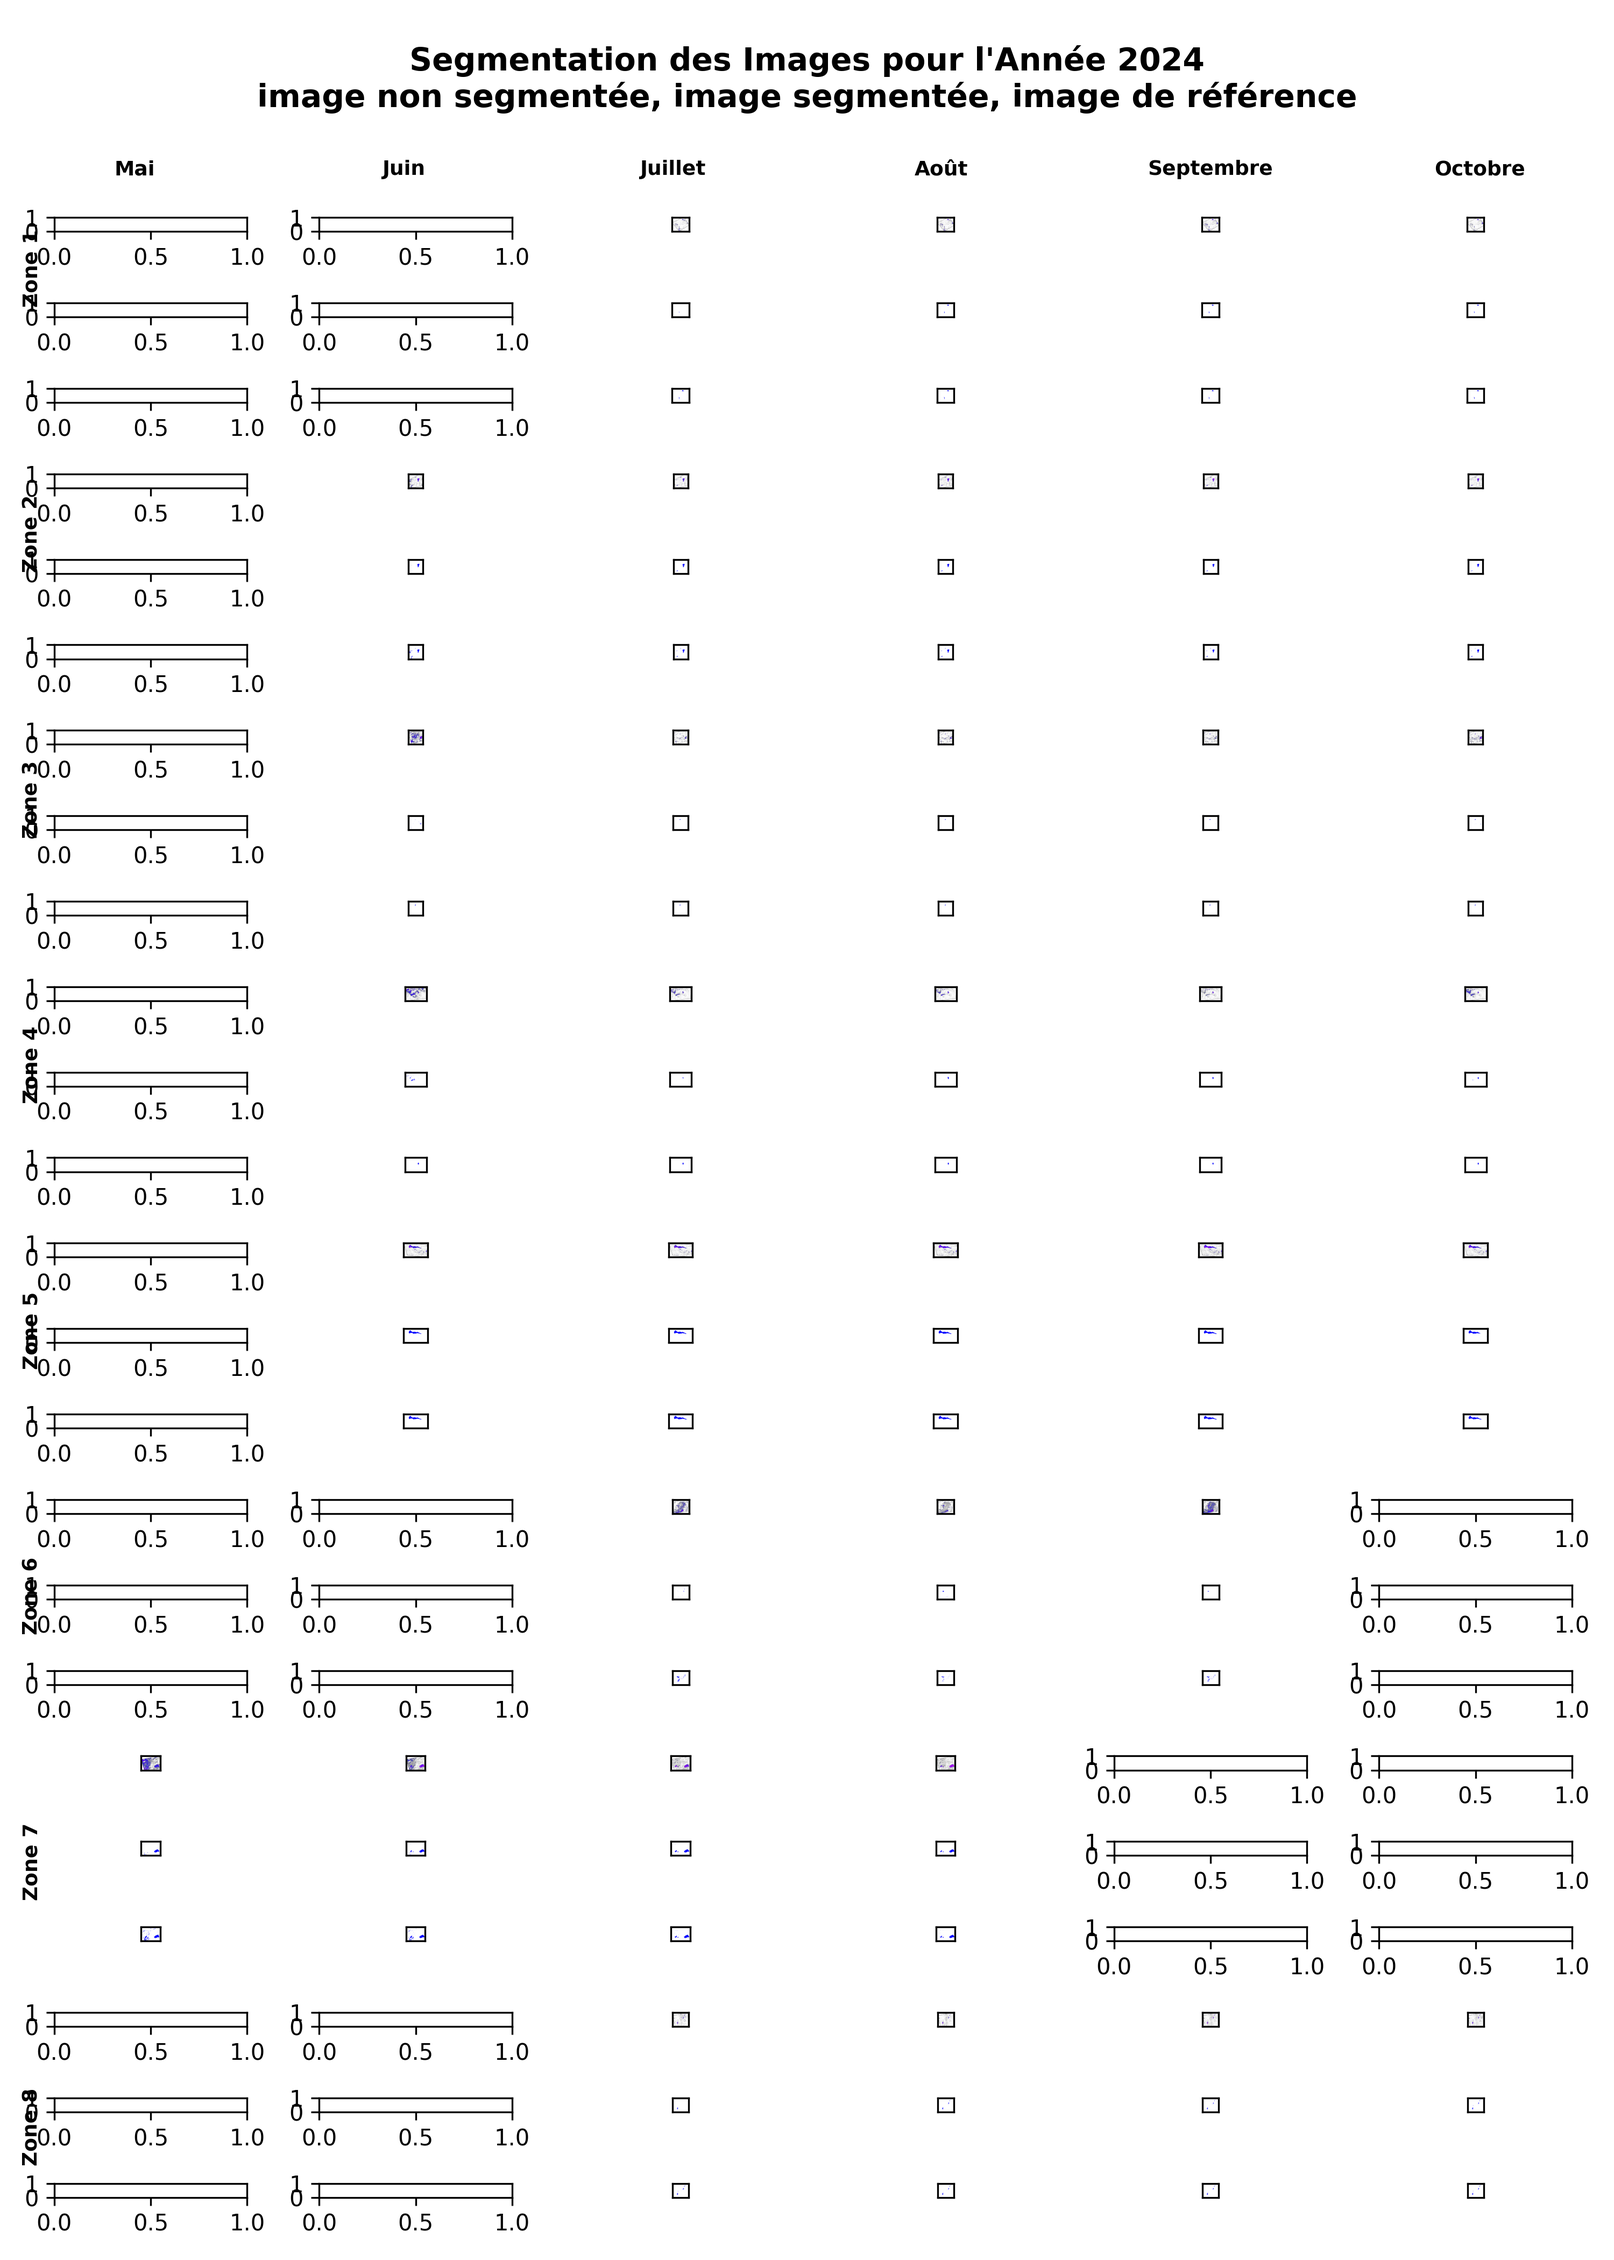
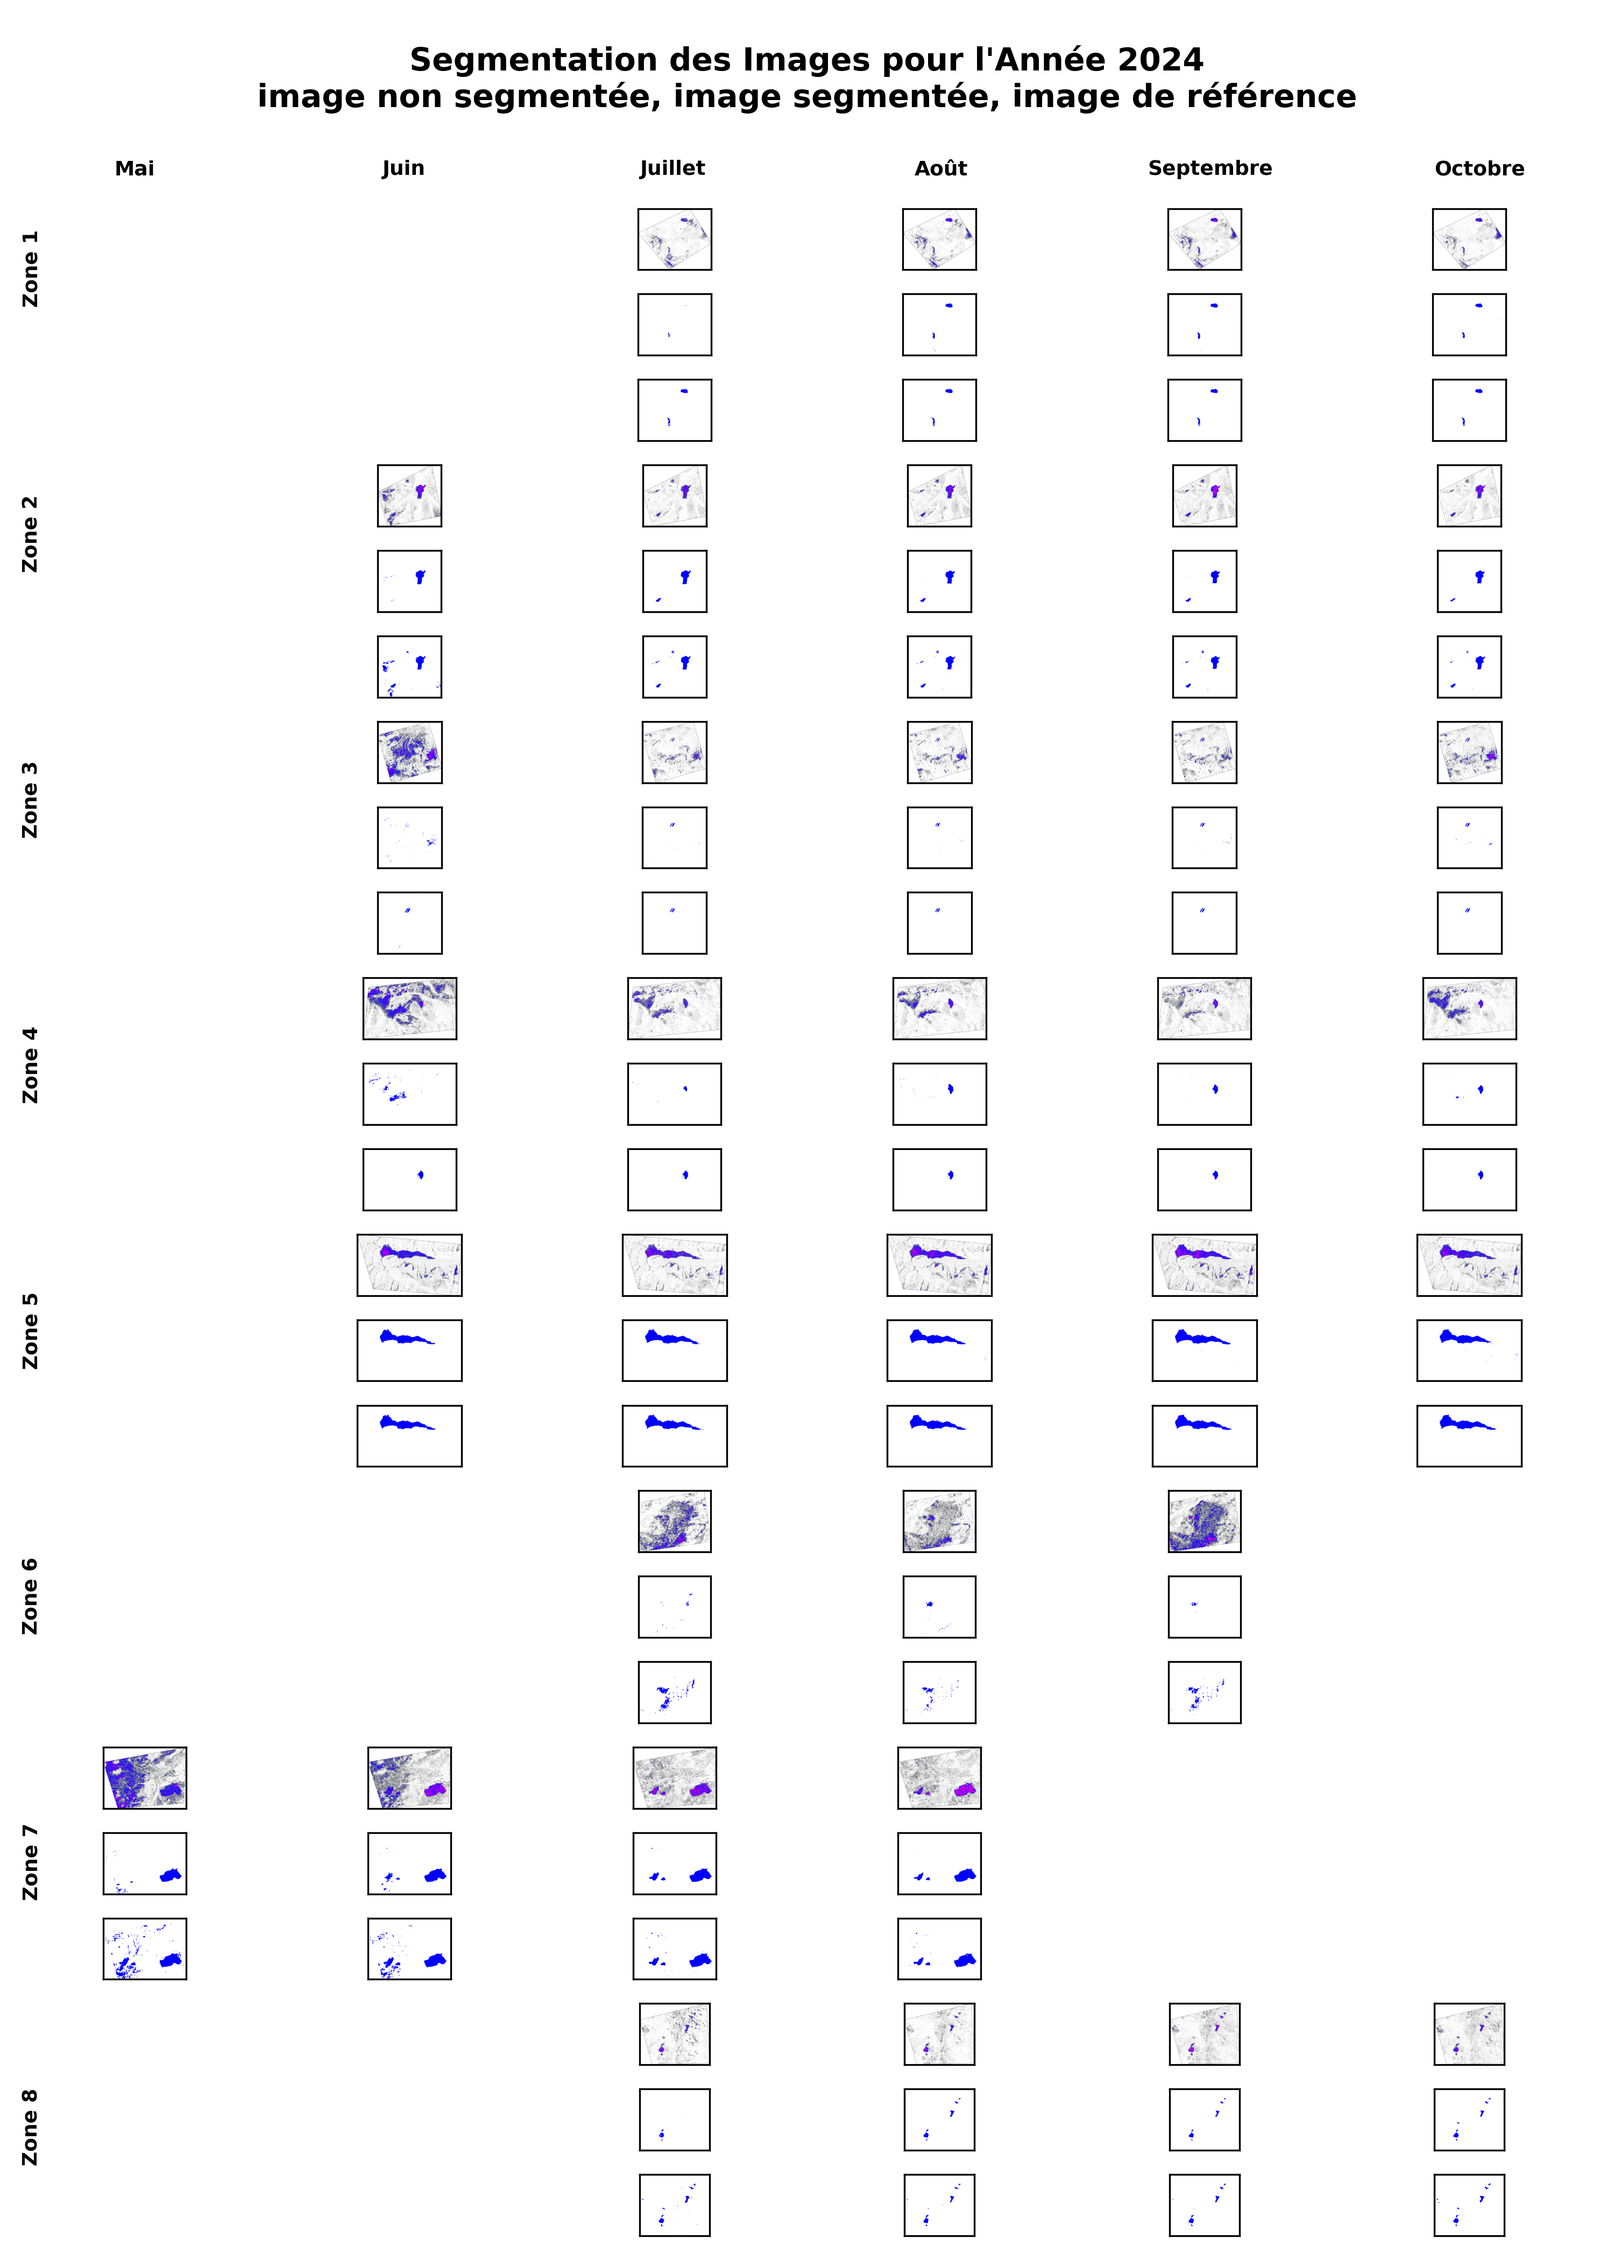
correction du modèle RF colocalisées

diff --git a/codes/RF_C.py b/codes/RF_C.py
@@ -139,14 +139,11 @@ def tests_segmentation_C(
 
     for x,zone in enumerate(zones):
 
-        print(f"segmentation Zone {zone} ", end="")
         dir = f'./Data/Test_zone{zone}/STATS/MeanMonthly/'
         dir_mean_monthly = f"./GroundTruth_DYN/Test_zone{zone}/"
         dir_colocated = f"./NDWI_colocalise_avec_sar/Colocated_Images/Zone{zone}"
 
         for y,m in enumerate(mois):
-            
-            print(f".", end="")
 
             chemin_image = None
             chemin_image_ref = None
@@ -156,6 +153,10 @@ def tests_segmentation_C(
             chemin_image_ref = premier_fichier_dossier(f"{dir_mean_monthly}/*{date}*.tif")
             chemin_colocated = premier_fichier_dossier(f"{dir_colocated}/*{annee}-{m:02d}*")
 
+            plot_oasis = plots[x * 3, y]
+            plot_segmente = plots[x * 3 + 1, y]
+            plot_ref = plots[x * 3 + 2, y]
+            
             if chemin_image is not None and chemin_image_ref is not None and chemin_colocated is not None:
 
                 colocated = recuperer_image(chemin_colocated)
@@ -166,17 +167,8 @@ def tests_segmentation_C(
                 end = time.time()
                 temps_execution.append(end-start)
                 
-                if chemin_image_ref is None :
-                    plot_oasis = plots[x * 2, y]
-                    plot_segmente = plots[x * 2 + 1, y]
-
-                else :
-                    plot_oasis = plots[x * 3, y]
-                    plot_segmente = plots[x * 3 + 1, y]
-                    plot_ref = plots[x * 3 + 2, y]
-
-                    plot_ref.imshow(image_reference_binaire(recuperer_image(chemin_image_ref)), cmap=INDICATEUR_BINAIRE, origin='upper')
-                    plot_ref.tick_params(left=False, bottom=False, labelleft=False, labelbottom=False)
+                plot_ref.imshow(image_reference_binaire(recuperer_image(chemin_image_ref)), cmap=INDICATEUR_BINAIRE, origin='upper')
+                plot_ref.tick_params(left=False, bottom=False, labelleft=False, labelbottom=False)
                     
                 plot_oasis.imshow(image, cmap=INDICATEUR_OASIS, origin='upper')
                 plot_oasis.tick_params(left=False, bottom=False, labelleft=False, labelbottom=False)
@@ -184,8 +176,12 @@ def tests_segmentation_C(
                 plot_segmente.imshow(image_segmentee, cmap=INDICATEUR_BINAIRE, origin='upper')
                 plot_segmente.tick_params(left=False, bottom=False, labelleft=False, labelbottom=False)
             
-        print()
+            else:
+                plot_oasis.axis("off")
+                plot_segmente.axis("off")
+                plot_ref.axis("off")
 
+            
     dx = len(zones)
     for x,zone in enumerate(zones):    
         fig.text(0.02, 0.94 * (1 - (x / dx) - (1 / (2 * dx))), f"Zone {zone}", ha='center', va='center', rotation='vertical', fontsize=9, fontweight='bold')
@@ -303,8 +299,7 @@ def moyenne_scores_annees_C(
 
 if __name__ == "__main__":
 
-    images, masks, colocated = load_data()
-    entrainer_modele("modele RF C 2024", zones=np.arange(5,9), mois=np.arange(1,13))
+    #entrainer_modele("modele RF C 2024", zones=np.arange(5,9), mois=np.arange(1,13))
 
 
     modele = load_model("modele RF C 2024")
